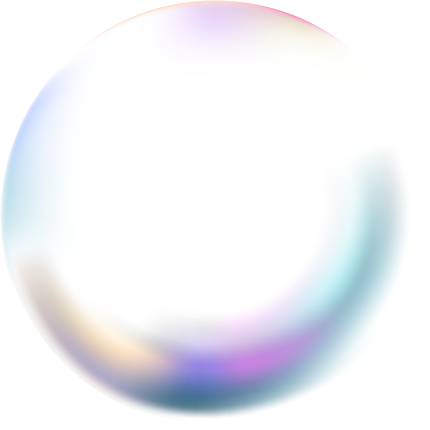
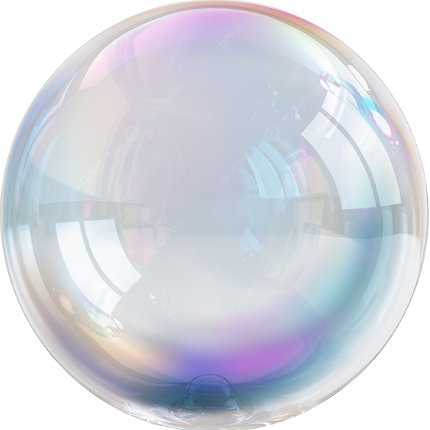
improved the bubble image & updated the BG image

diff --git a/style.css b/style.css
@@ -9,12 +9,28 @@ body {
     overflow: hidden;
     height: 100vh;
     width: 100vw;
+    background-color: black;
 }
 
+.bg-image {
+    position: fixed;
+    top: 0;
+    left: 0;
+    width: 100%;
+    height: 100%;
+    background-image: url('img/bg.jpg');
+    background-size: cover;
+    background-position: center;
+    z-index: -1; /* Behind all other content */
+    filter: blur(40px);
+  transform: scale(1.1);
+  overflow: hidden; /* on the parent container */
+  opacity: 0.5; /* Adjust opacity for a subtle effect */
+}
 .container {
     min-height: 100vh;
     width: 100vw;
-    background: linear-gradient(135deg, #0f172a 0%, #1f0831 50%, #0b1120 100%);
+    /* background: linear-gradient(135deg, #0f172a 0%, #1f0831 50%, #0b1120 100%); */
     position: relative;
     overflow: hidden;
     display: flex;
@@ -487,6 +503,7 @@ line-height: normal;
     pointer-events: none;
     z-index: 1; /* Behind main bubbles */
     overflow: hidden;
+    opacity: 0.4; /* Slightly visible */
 }
 
 /* Create multiple decorative bubbles */
@@ -495,7 +512,7 @@ line-height: normal;
     content: '';
     position: absolute;
     border-radius: 50%;
-    background: url('img/bubble_img.png') center/cover;
+    background: url('img/bubble_bg.png') center/cover;
     backdrop-filter: blur(10px);
     border: 1px solid rgba(255, 255, 255, 0.1);
     animation: floatUp 15s infinite linear;
@@ -550,7 +567,7 @@ line-height: normal;
 .decorative-bubbles .deco-bubble {
     position: absolute;
     border-radius: 50%;
-    background: url('img/bubble_img.png') center/cover;
+    background: url('img/bubble_bg.png') center/cover;
     backdrop-filter: blur(8px);
     border: 1px solid rgba(255, 255, 255, 0.15);
     pointer-events: none;

diff --git a/script.js b/script.js
@@ -143,7 +143,7 @@ function applyProximityRipple(hoveredBubble) {
             
             // Direct style application - CSS transitions will handle smoothness
             bubble.style.transform = `translate(-50%, -50%) translateZ(${originalZDepth}px) scale(${hoverScale})`;
-            bubble.style.filter = `brightness(1.05) contrast(0.95) drop-shadow(0 25px 50px rgba(0, 0, 0, 0.5))`;
+            bubble.style.filter = `brightness(1.05) contrast(0.85) drop-shadow(0 25px 50px rgba(0, 0, 0, 0.5))`;
             bubble.style.zIndex = '100';
             return;
         }
@@ -170,7 +170,7 @@ function applyProximityRipple(hoveredBubble) {
             
             // Direct style application
             bubble.style.transform = `translate(calc(-50% + ${directionX}px), calc(-50% + ${directionY}px)) translateZ(${originalZDepth}px) scale(${proximityScale})`;
-            bubble.style.filter = `brightness(${brightnessValue}) contrast(0.85)`;
+            bubble.style.filter = `brightness(${brightnessValue}) contrast(0.75)`;
             bubble.style.zIndex = `${newZIndex}`;
             
             console.log(`📍 Moving bubble ${distance.toFixed(0)}px away - Scale: ${proximityScale.toFixed(2)}`);
@@ -237,7 +237,7 @@ function createBubble(data) {
            background-size: cover, cover; 
            background-position: center, center; 
            background-repeat: no-repeat, no-repeat;
-           background-blend-mode: screen;`
+           background-blend-mode: hard-light;`
         : `background-image: url('img/bubble_img.png'); 
            background-size: cover; 
            background-position: center; 

diff --git a/index.html b/index.html
@@ -7,6 +7,7 @@
     <link rel="stylesheet" href="style.css">
 </head>
 <body>
+    <div class="bg-image"></div>
 <div class="container">
         <!-- Animated Background Particles -->
         <div class="particles"></div>
